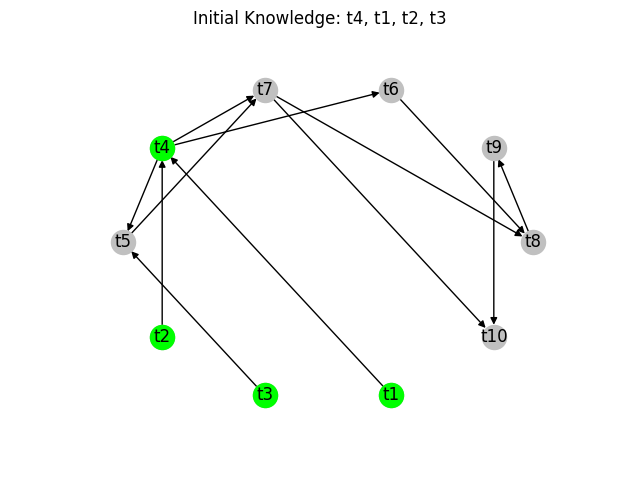
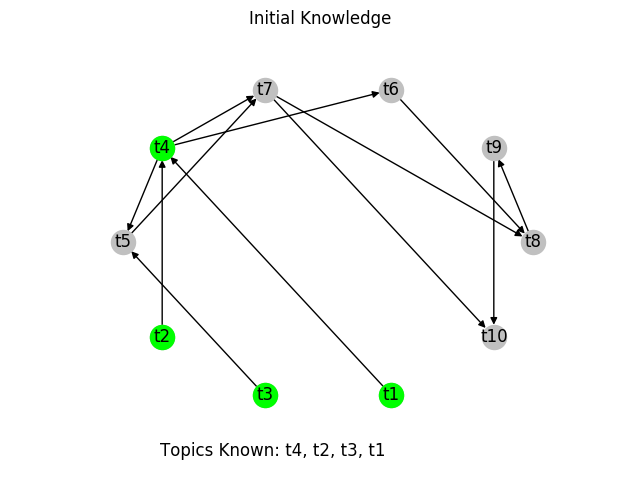
Ready to roll

Changed region(s): [[0.2812, 0.0, 0.7188, 0.0625], [0.25, 0.9062, 0.4688, 0.9688], [0.5, 0.9062, 0.5938, 0.9688]]

diff --git a/templates/admin.html b/templates/admin.html
@@ -29,25 +29,33 @@
         <div class="col-sm-9 col-md-10 main">
           <h1 class="page-header">Admin Section for {{ student }}</h1>
           <div class="container">
-            <h2>Edit Initial Topics:</h2>
+            <h2>Edit Student Credentials:</h2>
             <form class="form-horizontal" action="/" method="post">
+              <label class="control-label col-sm-2" for="score">Student Score:</label>
+              <div class="col-sm-10">
+                <input type="number" size="4" value={{ score }} name="score" min="0" max="100">
+              </div>
+              <br>
               <div class="form-group">
-                {% for i in range(1, 11) %}
-                  {% if i in expertise %}
+                <label class="control-label col-sm-2" for="score">Student Topics:</label>
+                <div class="col-sm-2">
+                  {% for i in range(1, 11) %}
+                    {% if i in expertise %}
+                      <div class="checkbox">
+                        <label><input type="checkbox" name="t{{ i }}" checked>Topic {{ i }}</label>
+                      </div>
+                    {% else %}
                     <div class="checkbox">
-                      <label><input type="checkbox" name="t{{ i }}" checked>Topic {{ i }}</label>
+                      <label><input type="checkbox" name="t{{ i }}">Topic {{ i }}</label>
                     </div>
-                  {% else %}
-                  <div class="checkbox">
-                    <label><input type="checkbox" name="t{{ i }}">Topic {{ i }}</label>
-                  </div>
-                  {% endif %}
-                {% endfor %}
+                    {% endif %}
+                  {% endfor %}
                 </div>
               </div>
+            </div>
               <div class="form-group">
-                <div class="col-sm-offset-2 col-sm-10">
-                  <button type="submit" name={{ studentID }} class="btn btn-default">Submit</button>
+                <div class="col-sm-offset-3 col-sm-4">
+                  <button type="submit" name=i{{ studentID }} class="btn btn-default">Submit</button>
                 </div>
               </div>
             </form>

diff --git a/templates/findPath.html b/templates/findPath.html
@@ -10,7 +10,6 @@
     <link rel="stylesheet" type="text/css" href="{{ url_for('static',filename='stylesheets/findPath.css') }}">
     <link rel="icon" href="../../favicon.ico">
     <title>Adaptive Framework for Learning</title>
-    <script type="text/javascript" src="static/javascript/dashboard.js"></script>
     </script>
   </head>
 
@@ -32,7 +31,7 @@
     <div id="MainMenu">
       <div class="list-group panel">
         <a href="#demo3" class="list-group-item list-group-item-info strong" data-toggle="collapse" data-parent="#MainMenu">Proposed Plan 1 - {{ plan1 }}<i class="fa fa-caret-down"></i></a>
-        <div class="collapse" id="demo3">
+        <div class="collapse in" id="demo3">
           <img src="/static/images/plan1-1.png" alt="Could not find image! :()">
           <img src="/static/images/plan1-2.png" alt="Could not find image! :()">
         </div>

diff --git a/templates/progress.html b/templates/progress.html
@@ -36,8 +36,9 @@
         </div>
         <div class="col-md-6 vcenter main">
           <p style="padding-top:20% !important">
+            <p style="fontsize:20;font-weight: bold;">Topics Mastery:</p>
             {% for element in weights %}
-              Topic {{loop.index}} has final weight of {{ element }} <br>
+              <br> Topic {{ element[0] }} has mastery value of {{ element[1] }}
             {% endfor %}
           </p>
         </div>

diff --git a/basic.py b/basic.py
@@ -3,6 +3,9 @@ from subprocess import call
 import sqlite3
 import json
 
+from matplotlib.pyplot import pause
+import pylab
+import numpy as np
 import networkx as nx
 import matplotlib.pyplot as plt
 
@@ -36,7 +39,6 @@ def writeActionInputData(inputFile):
 
 def writeQueryData(expertise):
     expertise = expertise.split(",")
-    print "Learner Expertise: ", expertise
     with open("query", "w") as a_file:
         a_file.write(":- query\n")
         a_file.write("maxstep :: 1..20;\n")
@@ -57,17 +59,17 @@ def landing():
 
     if request.method == "POST":
         params = request.form
+        score = request.form.get("score")
         paramString = ""
         for p in params:
             if "t" in p:
                 paramString += p + ","
-            else:
-                identifier = p
+            elif "i" in p:
+                identifier = p[1:]
         paramString = paramString[:-1]
-
         with conn:
             cursor = conn.cursor()
-            cursor.execute("UPDATE LEARNERS SET EXPERTISE=\"%s\" WHERE ID=%s" % (paramString, identifier))
+            cursor.execute("UPDATE LEARNERS SET EXPERTISE=\"%s\", SCORE=%s WHERE ID=%s" % (paramString, score, identifier))
 
     cursor = conn.execute("SELECT id, name from LEARNERS")
     return render_template("dashboard.html", result=cursor)
@@ -125,13 +127,27 @@ def progress():
     name = conn.execute("SELECT NAME FROM LEARNERS WHERE ID=%s" % (studentID)).fetchone()
 
     call(["/home/djpandit/Downloads/alchemy/bin/learnwts", "-i", "progress.mln", "-o", "weights_learned.mln", "-t", "attempts.db", "-ne", "Outcome", "-dMaxSec", "10"])
+    with open("initial_weights.mln", "r") as f:
+        initContent = f.readlines()
     with open("weights_learned.mln", "r") as f:
         content = f.readlines()
-    content = content[3:-4]
+    initContent, content = initContent[3:-2], content[3:-4]
+    initContent = filter(lambda x: "//" not in x and x != "\n", initContent)
     content = filter(lambda x: "//" not in x and x != "\n", content)
+    initWts = map(lambda x: float(x.split(" ")[0]), initContent)
     weights = map(lambda x: float(x.split(" ")[0]), content)
-    saveHistogram(weights)
-    return render_template("progress.html", student=name[0], weights=weights)
+    minInitWts, maxInitWts = min(initWts), max(initWts)
+    minWts, maxWts = min(weights), max(weights)
+    stepInitWts = (maxInitWts - minInitWts) / 5
+    stepWts = (maxWts - minWts) / 5
+    initWts = map(lambda x: int(round((x - minInitWts) / stepInitWts)), initWts)
+    weights = map(lambda x: int(round((x - minWts) / stepWts)), weights)
+    saveHistogram(initWts, weights)
+    topicWeightPair = []
+    for num in range(len(weights)):
+        topicWeightPair.append((num + 1, weights[num]))
+    topicWeightPair.sort(key=lambda x: -x[1])
+    return render_template("progress.html", student=name[0], weights=topicWeightPair)
 
 @app.route("/find-path", methods=["POST"])
 def find_path():
@@ -140,9 +156,8 @@ def find_path():
     graphEdges = writeActionInputData("dependencies.txt")
 
     studentID = request.form.get("path-student")
-    expertise = conn.execute("SELECT EXPERTISE FROM LEARNERS WHERE ID=%s" % (studentID)).fetchone()
-    name = conn.execute("SELECT NAME FROM LEARNERS WHERE ID=%s" % (studentID)).fetchone()
-    writeQueryData(expertise[0])
+    name, expertise = conn.execute("SELECT NAME, EXPERTISE FROM LEARNERS WHERE ID=%s" % (studentID)).fetchone()
+    writeQueryData(expertise)
 
     outputFile = open("learning_steps.txt", "w")
     call(["cplus2asp", "adaptiveSystem", "topicDependency", "query", "--query=0", "3"], stdout=outputFile)
@@ -164,36 +179,41 @@ def find_path():
         else:
             allSolutions[solNum].append(action)
 
-    saveFigure(graphEdges, expertise[0], allSolutions[0], "plan1")
-    saveFigure(graphEdges, expertise[0], allSolutions[1], "plan2")
-    saveFigure(graphEdges, expertise[0], allSolutions[2], "plan3")
+    saveFigure(graphEdges, expertise, allSolutions[0], "plan1")
+    saveFigure(graphEdges, expertise, allSolutions[1], "plan2")
+    saveFigure(graphEdges, expertise, allSolutions[2], "plan3")
     plan1 = ", ".join(allSolutions[0])
     plan2 = ", ".join(allSolutions[1])
     plan3 = ", ".join(allSolutions[2])
-    return render_template("findPath.html", plan1=plan1, plan2=plan2, plan3=plan3, student=name[0])
+
+    # animate(graphEdges, expertise, allSolutions)
+
+    return render_template("findPath.html", plan1=plan1, plan2=plan2, plan3=plan3, student=name)
 
 @app.route("/admin", methods=["POST"])
 def admin():
     conn = sqlite3.connect("project.db")
     studentID = request.form.get("admin")
-    name = conn.execute("SELECT NAME FROM LEARNERS WHERE ID=%s" % (studentID)).fetchone()
-    expertise = conn.execute("SELECT EXPERTISE FROM LEARNERS WHERE ID=%s" % (studentID)).fetchone()
-    expertise = expertise[0]
+    name, expertise, score = conn.execute("SELECT NAME, EXPERTISE, SCORE FROM LEARNERS WHERE ID=%s" % (studentID)).fetchone()
     expertise = expertise.split(",")
     expertise = map(lambda x: int(x.replace("t", "")), expertise)
-    print "Name of student: ", studentID, name, expertise
-    return render_template("admin.html", student=name[0], expertise=expertise, studentID=studentID)
+    return render_template("admin.html", student=name, expertise=expertise, studentID=studentID, score=score)
 
-def saveHistogram(dataPoints):
+def saveHistogram(initial, dataPoints):
     plt.clf()
-    plt.plot(range(1, len(dataPoints) + 1), dataPoints, marker='o', color='g')
-    plt.plot(range(1, len(dataPoints) + 1), [0] * len(dataPoints), color='black', linewidth=2.0)
-    plt.title('Current Performance', loc='center')
-    plt.xlabel('Topic Number')
-    plt.ylabel('Weights')
-    plt.grid()
+    fig, ax = plt.subplots()
+    ind = np.arange(1, 11)
+    width = 0.35
 
+    rects1 = ax.bar(ind, initial, width, color='y', label="Starting Knowledge")
+    rects2 = ax.bar(ind + width, dataPoints, width, color='g', label="Current Knowledge")
+    ax.set_title('Current Performance', loc='center')
+    ax.set_xlabel('Topic Number')
+    ax.set_ylabel('Topic Mastery')
+    ax.legend(loc='best', shadow=True)
+    ax.grid()
     plt.savefig("./static/images/weights_histogram.png", format="PNG")
+    plt.close("all")
 
 def saveFigure(Edges, initKnowledge, actions, outputFile):
     plt.clf()
@@ -201,7 +221,6 @@ def saveFigure(Edges, initKnowledge, actions, outputFile):
     initKnowledge = initKnowledge.split(",")
 
     initConfig.add_edges_from(Edges)
-    # pos = nx.spring_layout(initConfig, k=10.0)
     pos = nx.shell_layout(initConfig)
     black_edges = [edge for edge in Edges]
 
@@ -209,7 +228,8 @@ def saveFigure(Edges, initKnowledge, actions, outputFile):
     nx.draw_networkx_labels(initConfig, pos)
     nx.draw_networkx_nodes(initConfig, pos, nodelist=initKnowledge, node_color='#00FF00')
     nx.draw_networkx_edges(initConfig, pos, edgelist=black_edges, edge_color='black', arrows=True)
-    plt.suptitle("Initial Knowledge: " + ", ".join(initKnowledge))
+    plt.suptitle("Initial Knowledge")
+    plt.figtext(0.25, 0.05, "Topics Known: " + ", ".join(initKnowledge), fontsize=12)
 
     plt.axis("off")
     plt.savefig("./static/images/" + outputFile + "-1.png", format="PNG")
@@ -230,7 +250,6 @@ def saveFigure(Edges, initKnowledge, actions, outputFile):
         edgeLabels[learnOrder[order]] = str(order + 1)
 
     finalKnowledge = ['t1', 't2', 't3', 't4', 't5', 't6', 't7', 't8', 't9', 't10']
-    # pos = nx.spring_layout(finalConfig, k=10.0)
     black_edges = [edge for edge in Edges if edge not in learnOrder]
     nx.draw_networkx_nodes(finalConfig, pos, node_color='#C0C0C0')
     nx.draw_networkx_labels(finalConfig, pos)
@@ -242,56 +261,23 @@ def saveFigure(Edges, initKnowledge, actions, outputFile):
     plt.figtext(0.25, 0.05, "Learning Order: " + ", ".join(actions), fontsize=12)
     plt.axis("off")
     plt.savefig("./static/images/" + outputFile + "-2.png", format="PNG")
-    # animate()
+    plt.close("all")
 
-def animate():
-    import networkx as nx
-    import numpy as np
-    import matplotlib.pyplot as plt
-    from matplotlib.pyplot import pause
-    import pylab
+def animate(Edges, initKnowledge, actions):
     pylab.ion()
     plt.clf()
 
+    initKnowledge = initKnowledge.split(",")
     Graph = nx.DiGraph()
-    labels = {'t1', 't2', 't3', 't4', 't5', 't6', 't7', 't8', 't9', 't10'}
-    initPosition = {
-    't1': [ 0.62595554,  0.21395259],
-    't2': [ 1.0,  0.59112415],
-    't3': [ 0.0547307,  0.53207903 ],
-    't4': [ 0.57086641,  0.53207903],
-    't5': [ 0.34546013,  0.30230591],
-    't6': [ 0.0547307 ,  0.75364438],
-    't7': [ 0.57086641,  0.99915934],
-    't8': [ 0.87557846,  0.84131369],
-    't9': [ 0.30929179,  0.97162183],
-    't10': [ 0.8467943 ,  0.21395259]
-    }
-
-    Edges = [
-    ('t1', 't4'),
-    ('t2', 't4'),
-    ('t3', 't5'),
-    ('t4', 't5'),
-    ('t4', 't6'),
-    ('t4', 't7'),
-    ('t5', 't7'),
-    ('t6', 't8'),
-    ('t7', 't8'),
-    ('t8', 't9'),
-    ('t7', 't10'),
-    ('t9', 't10')
-    ]
 
     red_edges = [('t1', 't4'), ('t3', 't5'), ('t4', 't6'), ('t4', 't7'), ('t6', 't8'), ('t8', 't9'), ('t7', 't10')]
     black_edges = [('t2', 't4'), ('t4', 't5'), ('t5', 't7'), ('t7', 't8'), ('t9', 't10')]
 
     Graph.add_edges_from(Edges)
-    currentNode = ['t1', 't2', 't3']
-    pos = nx.spring_layout(Graph, pos = initPosition, fixed = labels)
-    black_nodes = [edge[1] for edge in Graph.edges() if edge[1] not in currentNode]
+    pos = nx.shell_layout(Graph)
+    black_nodes = [edge[1] for edge in Graph.edges() if edge[1] not in initKnowledge]
     nx.draw_networkx_nodes(Graph,pos, node_color='#C0C0C0')
-    nx.draw_networkx_nodes(Graph,pos, nodelist=currentNode, node_color='#00FF00')
+    nx.draw_networkx_nodes(Graph,pos, nodelist=initKnowledge, node_color='#00FF00')
     nx.draw_networkx_labels(Graph,pos)
     nx.draw_networkx_edges(Graph, pos, edgelist=black_edges,edge_color='black', arrows=True)
     plt.axis("off")
@@ -299,19 +285,17 @@ def animate():
 
     currentList = []
     def get_fig(i):
-        print "Edge: ", red_edges[i]
         currentList.append(red_edges[i])
-        currentNode.append(red_edges[i][1])
-        pos = nx.spring_layout(Graph, pos = initPosition, fixed = labels)
+        initKnowledge.append(red_edges[i][1])
+        pos = nx.shell_layout(Graph)
         black_edges = [edge for edge in Graph.edges() if edge != red_edges[i]]
-        black_nodes = [label for label in labels if label not in currentNode]
+        black_nodes = [edge[1] for edge in Graph.edges() if edge[1] not in initKnowledge]
         nx.draw_networkx_labels(Graph,pos)
-        nx.draw_networkx_nodes(Graph,pos, nodelist=currentNode, node_color='#7CFC00')
+        nx.draw_networkx_nodes(Graph,pos, nodelist=initKnowledge, node_color='#7CFC00')
         nx.draw_networkx_nodes(Graph,pos, nodelist=black_nodes, node_color='#FF8C00')
         nx.draw_networkx_edges(Graph, pos, edgelist=currentList, edge_color='#FFDF00', arrows=True)
         nx.draw_networkx_edges(Graph, pos, edgelist=black_edges,edge_color='black', arrows=True)
-        plt.text(0.05, 0.05, "Learning Order: " + ", ".join(currentNode), fontsize=12)
-
+        plt.figtext(0.25, 0.05, "Learning Order: " + ", ".join(initKnowledge), fontsize=12)
         pylab.show()
 
     for i in range(len(red_edges)):
